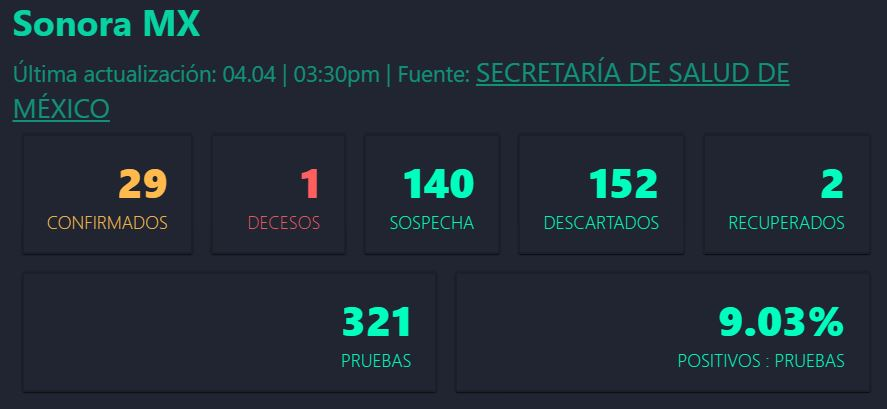
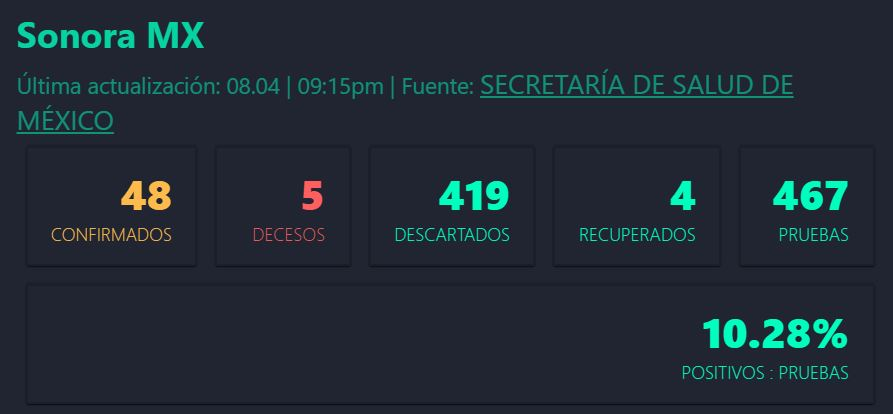
actualización de datos

diff --git a/src/components/Charts.js b/src/components/Charts.js
@@ -70,6 +70,7 @@ const confirmed = {
         3,
         3,
         9,
+        7,
       ],
     },
   ],
@@ -150,6 +151,7 @@ const accumulated = {
         36,
         39,
         48,
+        55,
       ],
     },
   ],
@@ -233,15 +235,15 @@ export function ConfirmedByProvinceChart() {
 
 const data = {
   labels: [
-    "Recuperados 8.33%",
-    "Estables/Domicilio - 56.25%",
-    "Estables/Hospital - 8.33%",
-    "Graves/Hospital - 16.667%",
-    "Fallecidos - 10.417%",
+    "Recuperados 9.091%",
+    "Estables/Domicilio - 52.727%",
+    "Estables/Hospital - 10.909%",
+    "Graves/Hospital - 12.727%",
+    "Fallecidos - 14.545%",
   ],
   datasets: [
     {
-      data: [4, 27, 4, 8, 5],
+      data: [5, 29, 6, 7, 8],
       borderColor: "hsla(164, 23%, 3%, 0.6)",
       backgroundColor: [
         "hsla(163, 72%, 100%, 0.9)",

diff --git a/src/db/SonoraData.js b/src/db/SonoraData.js
@@ -3,7 +3,7 @@ const data = [
     id: 0,
     name: "Hermosillo",
     capital: "Hermosillo",
-    confirmed: 16,
+    confirmed: 19,
     deaths: 0,
     compromised: 0,
     status: null,
@@ -42,7 +42,7 @@ const data = [
     id: 3,
     name: "Ciudad Obregón",
     capital: "Ciudad Obregón",
-    confirmed: 6,
+    confirmed: 7,
     deaths: 0,
     compromised: 0,
     status: null,
@@ -68,7 +68,7 @@ const data = [
     id: 5,
     name: "San Luis Rio Colorado",
     capital: "San Luis Rio Colorado",
-    confirmed: 7,
+    confirmed: 9,
     deaths: 0,
     compromised: 0,
     status: null,
@@ -107,7 +107,7 @@ const data = [
     id: 8,
     name: "Huatabampo",
     capital: "Huatabampo",
-    confirmed: 6,
+    confirmed: 7,
     deaths: 0,
     compromised: 0,
     status: null,

diff --git a/src/components/Sonora.js b/src/components/Sonora.js
@@ -9,12 +9,12 @@ export default function Sonora() {
   });
 
   const dataTotals = {
-    confirmed: 48,
-    deaths: 5,
+    confirmed: 55,
+    deaths: 8,
     // suspicious: 67,
-    negatives: 419,
-    recoveries: 4,
-    tests: 467,
+    negatives: 445,
+    recoveries: 5,
+    tests: 500,
   };
 
   var result = (dataTotals.confirmed / dataTotals.tests) * 100;
